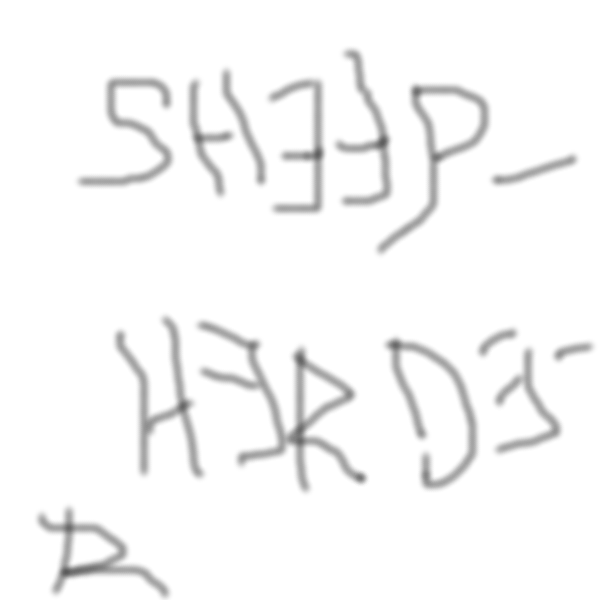
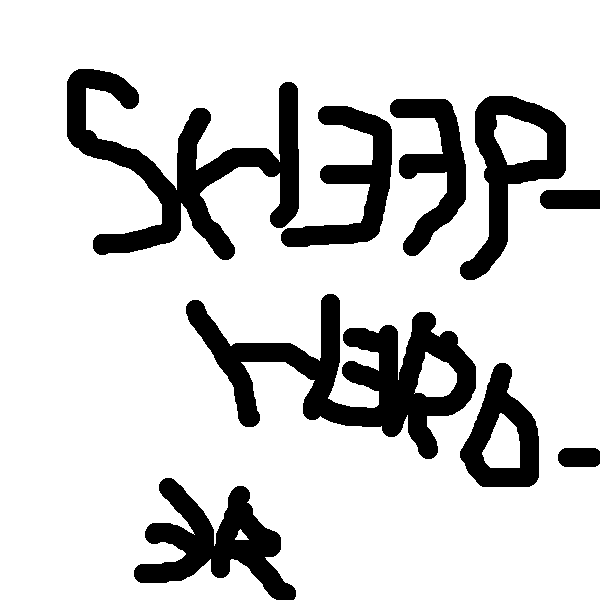
Fungerande end screen, bug med element i group

Changed region(s): [[0.06, 0.48, 1.0, 1.0], [0.09, 0.06, 1.0, 0.48]]

diff --git a/myownlol/src/graphics/GUI.java b/myownlol/src/graphics/GUI.java
@@ -9,6 +9,7 @@ import java.awt.event.ActionEvent;
 import java.awt.event.ActionListener;
 import java.util.ArrayList;
 import java.util.List;
+import java.util.Scanner;
 
 import com.sun.xml.internal.bind.v2.runtime.reflect.opt.Const;
 
@@ -46,10 +47,17 @@ public class GUI extends Application {
 	private StartDisplay sd;
 
 	private BoardDisplay bd;
+	
+	private WinnerDisplay wd;
 
 	private Button startButton;
 	
+	private Button playagain;
+	
 	private Scene scene;
+	
+	
+	Scanner key = new Scanner(System.in);
 
 	@Override
 	public void start(Stage primaryStage) throws Exception {
@@ -60,11 +68,13 @@ public class GUI extends Application {
 	
 		
 		sd = new StartDisplay();
+		wd = new WinnerDisplay();
 
 		startButton = new Button("STARTT");
 		startButton.setOnMouseClicked(event -> mouseClicked(event));
+		startButton.setOnMouseExited(event -> mouseReleased(event));
 
-		this.masterGroup.getChildren().add(sd.getGroup());
+		this.masterGroup.getChildren().add(sd.getTilePane());
 		this.masterGroup.getChildren().add(startButton);
 
 		scene = new Scene(masterGroup, 600, 600);
@@ -88,6 +98,7 @@ public class GUI extends Application {
 		} else if (e.getCode() == KeyCode.UP) {
 			sh.getPlayer().move(sh.getPlayer().getLocation(), Direction.NORTH);
 			rePaint();
+
 		} else if (e.getCode() == KeyCode.DOWN) {
 			sh.getPlayer().move(sh.getPlayer().getLocation(), Direction.SOUTH);
 			rePaint();
@@ -118,19 +129,38 @@ public class GUI extends Application {
 
 		Sheep Rodmundur = new Sheep(sheepPoint, Direction.SOUTH, board,
 				Condition.ALIVE);
+		
+		board.setPlayer(Fredrik);
+		board.setSheep(Rodmundur);
 
 		sh = new SheepHerder(Fredrik, Rodmundur, board);
 
-		bd = new BoardDisplay(Constants.BOARD_WIDTH, Constants.BOARD_HEIGHT, sh);
-
-		
+		bd = new BoardDisplay(Constants.BOARD_WIDTH, Constants.BOARD_HEIGHT, sh);		
 		masterGroup.getChildren().add(bd.getGroup());
 	}
 	
+	public void mouseReleased(MouseEvent e) {
+	}
+	
 	public void rePaint(){
+		
+		if(sh.isWinningConiditions()){
+			masterGroup.getChildren().remove(sd.getTilePane());
+			masterGroup.getChildren().remove(startButton);
+			masterGroup.getChildren().removeAll(bd.getGroup());
+			masterGroup.getChildren().add(wd.getTilePane());
+			
+			playagain = new Button("PLAY MORE??");
+			playagain.setOnMouseClicked(event -> mouseClicked(event));
+			masterGroup.getChildren().add(playagain);
+			
+
+		}
+		else{
 		masterGroup.getChildren().remove(bd.getGroup());
 		bd = new BoardDisplay(Constants.BOARD_WIDTH, Constants.BOARD_HEIGHT, sh);
 		masterGroup.getChildren().add(bd.getGroup());
+		}
 	}
 
 }

diff --git a/myownlol/src/graphics/WinnerDisplay.java b/myownlol/src/graphics/WinnerDisplay.java
@@ -1,0 +1,38 @@
+package graphics;
+
+import javafx.scene.Group;
+import javafx.scene.control.Button;
+import javafx.scene.image.ImageView;
+import javafx.scene.layout.TilePane;
+import enums.Square;
+
+public class WinnerDisplay {
+
+	private TilePane tilePane;
+
+	private ImageView winnerDisplay;
+
+	private Group group;
+
+	public WinnerDisplay() {
+
+		group = new Group();
+
+		tilePane = new TilePane();
+		tilePane.setHgap(0);
+		tilePane.setPrefColumns(1);
+
+		winnerDisplay = new ImageView();
+		winnerDisplay.setImage(Square.WINNER_DISPLAY.getImage());
+		winnerDisplay.setFitHeight(600);
+		winnerDisplay.setFitWidth(600);
+
+		tilePane.getChildren().add(winnerDisplay);
+
+	}
+
+	public TilePane getTilePane() {
+		return this.tilePane;
+	}
+
+}

diff --git a/myownlol/src/graphics/StartDisplay.java b/myownlol/src/graphics/StartDisplay.java
@@ -14,14 +14,8 @@ public class StartDisplay {
 	
 	private ImageView startDisplay;
 	
-	private Button startButton;
-	
-	private Group group;
-	
 	public StartDisplay() {
-		
-		group = new Group();
-		
+
 		tilePane = new TilePane();
 		tilePane.setHgap(0);
 		tilePane.setPrefColumns(1);
@@ -33,12 +27,10 @@ public class StartDisplay {
 		
 		tilePane.getChildren().add(startDisplay);
 		
-		group.getChildren().add(tilePane);
-		
 	}
 	
-	public Group getGroup() {
-		return this.group;
+	public TilePane getTilePane() {
+		return this.tilePane;
 	}
 
 }

diff --git a/myownlol/src/graphics/SheepHerder.java b/myownlol/src/graphics/SheepHerder.java
@@ -13,15 +13,23 @@ public class SheepHerder {
 	private Board board;
 	private Sheep sheep;
 	private Player herder;
+	private boolean winner;
 
 	public SheepHerder(Player player, Sheep sheep, Board board) {
 		this.board = board;
 		this.herder = player;
 		this.sheep = sheep;
+		this.winner = false;
 	}
 
 	public Board getBoard() {
 		return board;
+	}
+	
+	public boolean isWinningConiditions(){
+		board.updateStatus();
+		return (this.sheep.getCondition().equals(Condition.CAUGHT));
+		
 	}
 
 	public void setBoard(Board board) {

diff --git a/myownlol/src/enums/Square.java b/myownlol/src/enums/Square.java
@@ -14,7 +14,8 @@ public enum Square {
 	GRASS(new Image("images/basic-tile.png")),
 	SHEEP(new Image("images/sheep-tile.png")), 
 	HERDER(new Image("images/herder-tile.png")),
-	START_DISPLAY(new Image("images/startdisplay.png"));
+	START_DISPLAY(new Image("images/startdisplay.png")),
+	WINNER_DISPLAY(new Image("images/winnerdisplay.png"));
 	
 	
 
